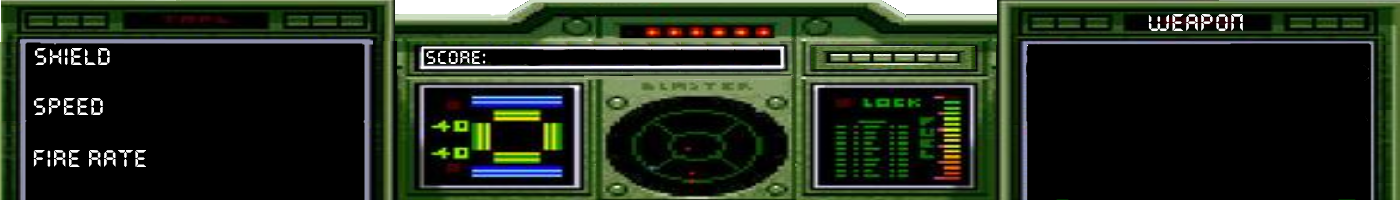
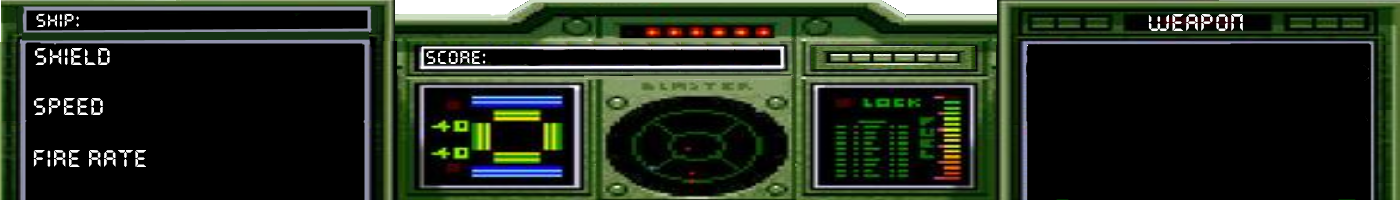
fix

Changed region(s): [[0.0, 0.03, 0.2764, 0.21]]

diff --git a/Fermi's Hunt Shared/src/managers/HUD.java b/Fermi's Hunt Shared/src/managers/HUD.java
@@ -10,12 +10,12 @@ import mainGame.Game;
 
 public class HUD {
 	
-	private Font f = new Font("8BIT WONDER Nominal", Font.PLAIN, 15);
+	private Font f = new Font("8BIT WONDER Nominal", Font.PLAIN, 12);
 	private boolean wait;
 	private Image hud, hudDown, hudWeapon;
 	private Image shieldBar, speedBar, fireRateBar;
-	private String url, urlHudDown, urlWeapon, urlShield, urlSpeed, urlFire, Sscore;
-	private int X, Y, bX, bY, wX, wY, sX, sY,  score;
+	private String url, urlHudDown, urlWeapon, urlShield, urlSpeed, urlFire, Sscore, SshipName;
+	private int X, Y, bX, bY, wX, wY, sX, sY, nX, nY,  score;
 
 	
 	public  String[] HUD_Live = {
@@ -76,7 +76,9 @@ public class HUD {
 		wX =((Game.WIDTH / 2) - 700) + 1027;
 		wY = (Game.HEIGHT - 200) + 44;
 		sX = ((Game.WIDTH / 2) - 700) + 490;
-		sY = (Game.HEIGHT - 200) + 64;
+		sY = (Game.HEIGHT - 200) + 62;
+		nX = ((Game.WIDTH / 2) - 700) +85;
+		nY = (Game.HEIGHT - 200) +26 ;
 		
 		
 		wait = false;
@@ -117,12 +119,13 @@ public class HUD {
 	public void HUD_Start(){
 		wait = false;
 	}
-	public void setHUDstats(int shield, int speed, int fire){
+	public void setHUDstats(int shield, int speed, int fire, String name){
 		
 		if (speed > 10) speed = 10;
 		if (shield > 10) shield = 10;
 		if (fire> 10) fire = 10;
 		
+		SshipName = name;
 		
 		urlShield = HUD_StatsBar[shield];
 		urlSpeed = HUD_StatsBar[speed];
@@ -172,6 +175,7 @@ public class HUD {
 		g.drawImage(getHUDDownImage(), (Game.WIDTH / 2) - 700, (Game.HEIGHT - 200), null);
 		g.drawImage(getHUDWeapon(), wX, wY, null);
 		g.drawString(Sscore, sX, sY);
+		g.drawString(SshipName, nX, nY);
 		g.drawImage(getShieldBarImage(), bX, bY, null);
 		g.drawImage(getSpeedBarImage(), bX, (bY + 50), null);
 		g.drawImage(getFireRateBarImage(), bX, (bY + 100),null);

diff --git a/Fermi's Hunt Shared/src/managers/EnemyManager.java b/Fermi's Hunt Shared/src/managers/EnemyManager.java
@@ -139,7 +139,7 @@ public class EnemyManager extends Manager<BasicEnemy> implements Runnable {
 		while(isRunning){
 		for(int x=0; x<BUUM.size() ; x++){
 			try {
-				Thread.sleep(1000);
+				Thread.sleep(400);
 			} catch (InterruptedException e) {
 				// TODO Auto-generated catch block
 				e.printStackTrace();

diff --git a/Fermi's Hunt Shared/src/characters/Ship.java b/Fermi's Hunt Shared/src/characters/Ship.java
@@ -248,7 +248,7 @@ public class Ship extends SpaceObject implements MouseListener{
 
 
 	public void initPlayer() {
-		hud.setHUDstats(shield , speed, fireRate);
+		hud.setHUDstats(shield , speed, fireRate, shipName);
 		initTimers();
 		if(speed == 0) {
 			speed = 5;
